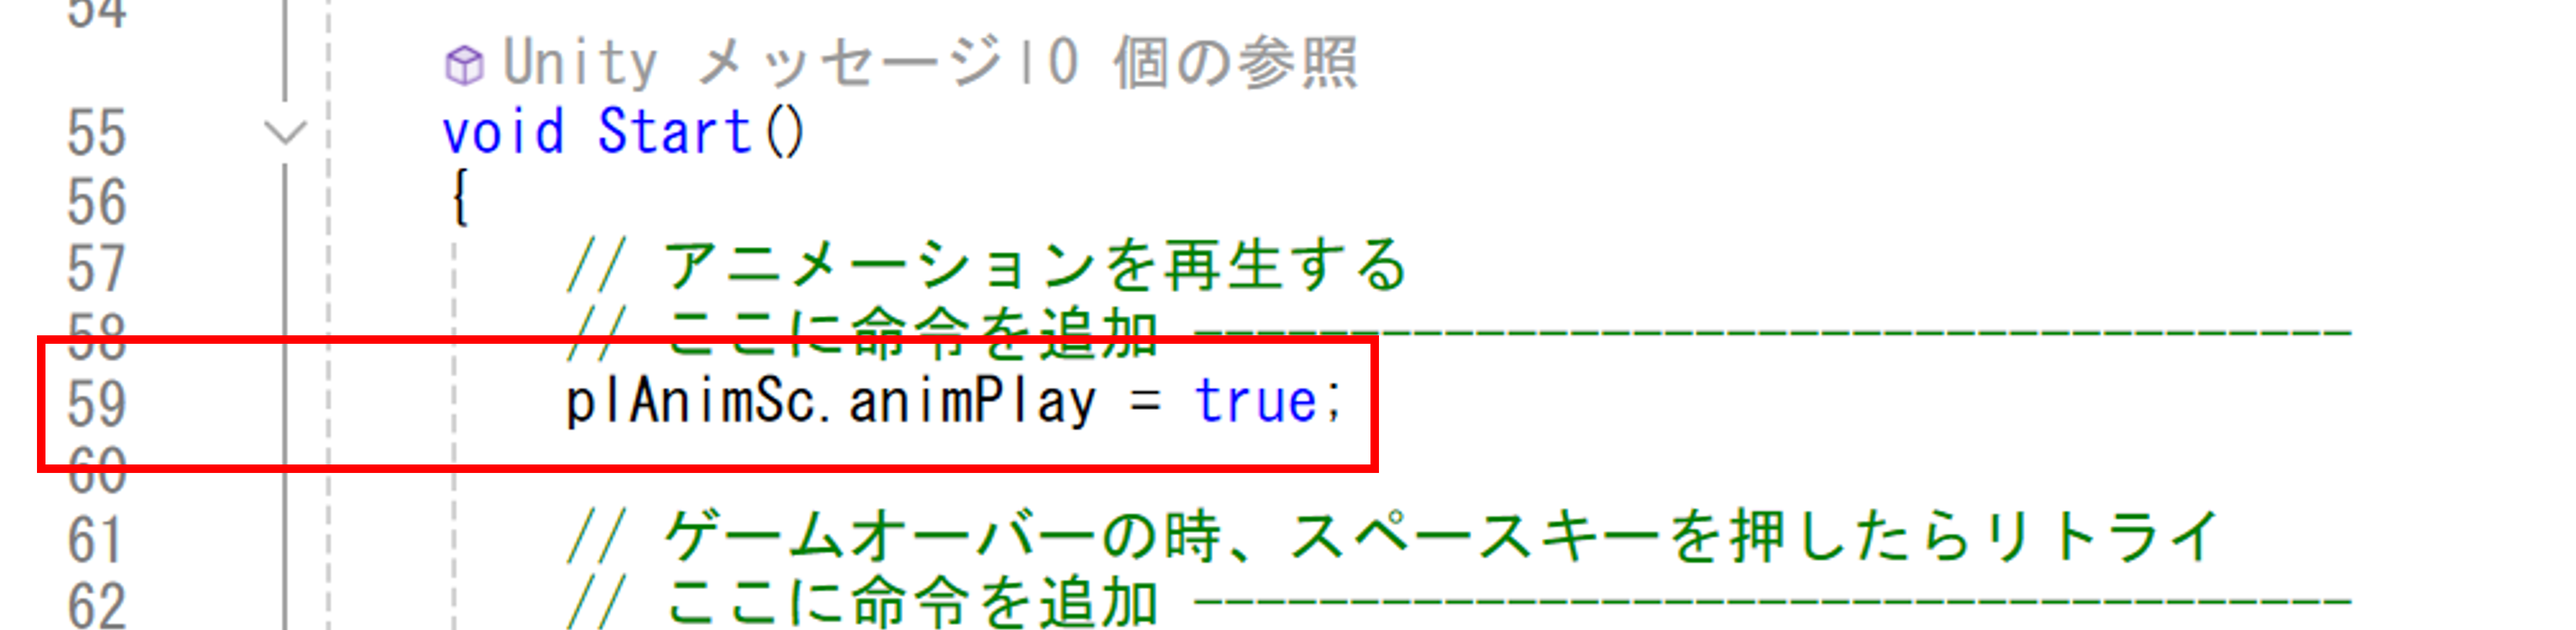
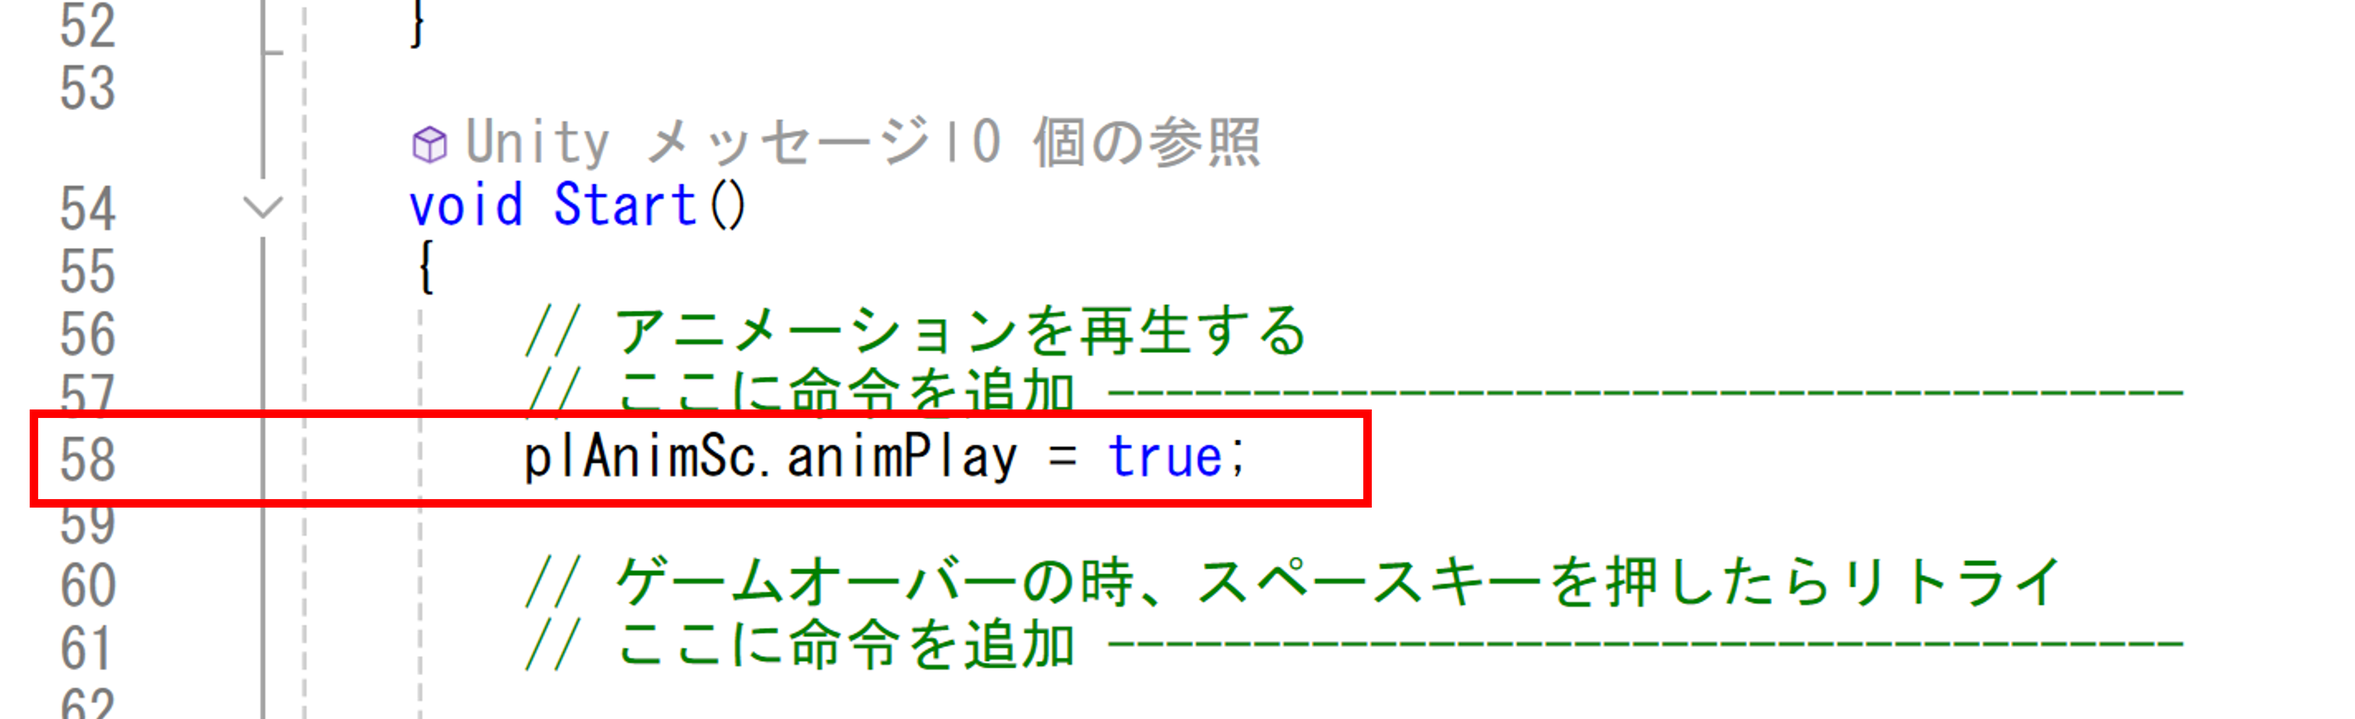
updata  画像変更

diff --git a/index.html b/index.html
@@ -107,7 +107,7 @@
 
             <section id="link7">
             <h2>カメラでプレイヤーを追いかけよう</h2>
-                <p>ヒエラルキーウィンドウ [PlCamera] を選択<br>
+                <p>ヒエラルキービュー [PlCamera] を選択<br>
                     CameraControllerスクリプトのプレイヤーオブジェクトに
                     ヒエラルキービューからPlayerをドラッグ＆ドロップ
                 </p>
